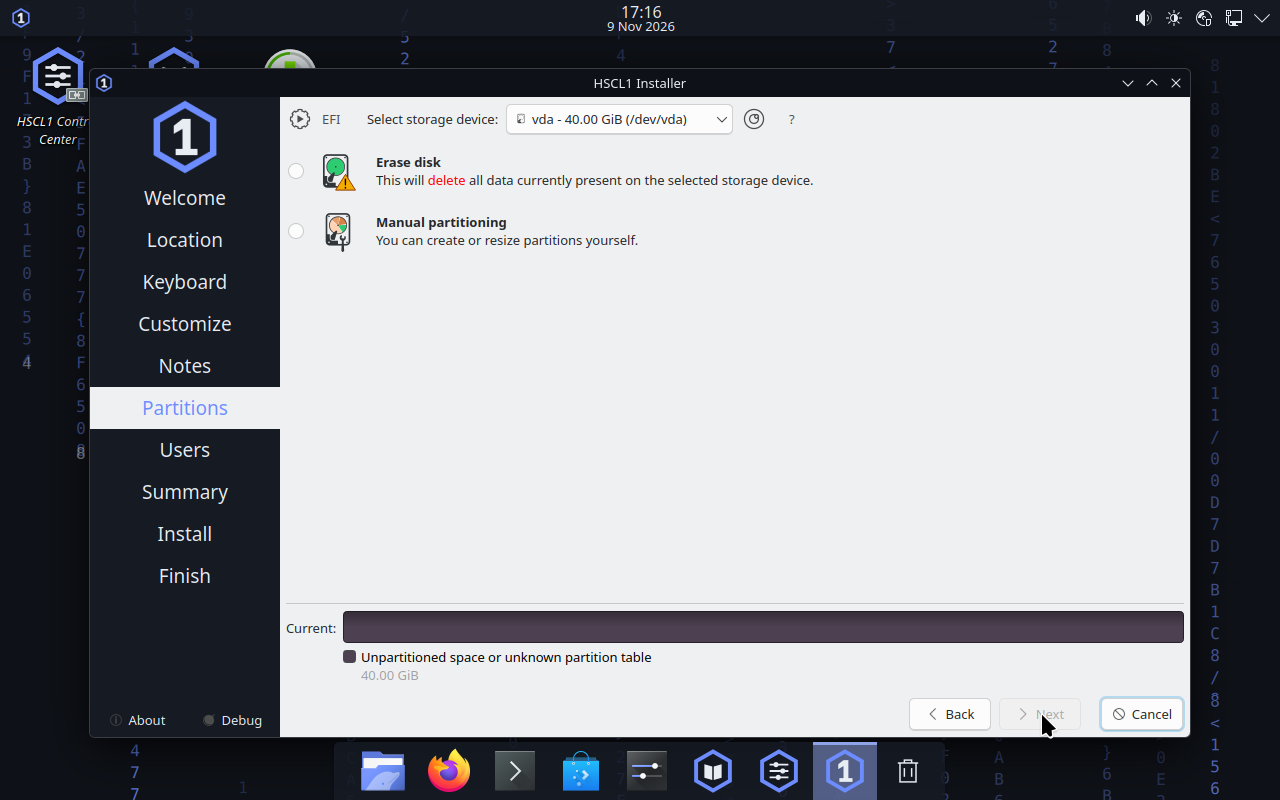
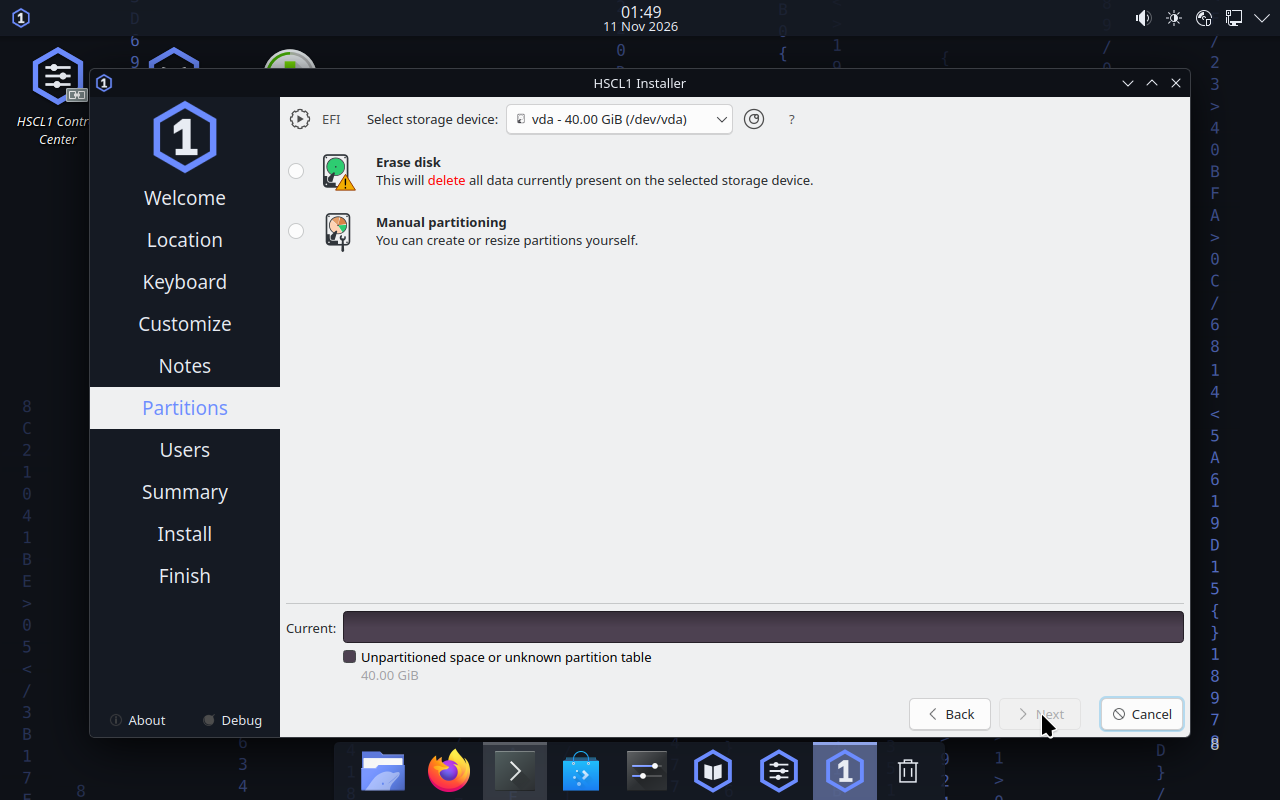
docs: LUKS2 on rc3 verified through the software-rendering wrapper; installer pages from that run

diff --git a/docs/AUTONOMOUS_QUEUE.md b/docs/AUTONOMOUS_QUEUE.md
@@ -47,7 +47,7 @@ booted-artifact evidence missing).
 | Q-49 | Full install and boot at the documented 4 GB minimum | installer pages + installed boot | **VM-VERIFIED 2026-11-10** - `HSCL1-qa-green` (`5d4ea47e…`), 4 GB: centred installer with the full version string, erase plan ESP+ext4, confirmation dialog, "All done", 27 min without an OOM kill; the disk then booted with `iso=none`, logged in, and `hscl privacy status` shows `persistent disk swap: active (expected on an installed system)` |
 | Q-50 | LUKS install panicked in the guest at 6 GB | kernel console text + retry | **RESOLVED as a RAM requirement 2026-11-10** - the 6 GB run panicked (`Attempted to kill init! exitcode=0x0000000b`), the identical scenario at **8 GB** finished with "All done" and the disk unlocked (`artifacts/install-luks-final2`, `artifacts/boot-luks-final`). It is intermittent (6 GB had worked on the previous candidate), so the documentation now says: give an encrypted install 8 GB; the unencrypted one is verified at 4 GB. Added `scripts/dev/detect_panic.py` plus a `panic_suspects` key in the harness summary so a dead guest is never mistaken for a quiet run. |
 | Q-51 | Test-order dependence in the WSL-backed unit tests | reproduce with a seed, then fix the pollution | **CAUSE FOUND AND HANDLED 2026-11-10** - the failures were not order-dependent after all: WSL writes its own launcher errors as **UTF-16** into the stdout pipe ("Ein Verbindungsversuch ist fehlgeschlagen … github.com/microsoft/WSL/issues"), so the test saw NUL-separated mojibake instead of the script output and asserted on it. `tests/shellutil.py` now normalises that text (UTF-16 detection), skips with a reason when a launcher marker is present - even at returncode 0, because the launcher can report success while printing its failure - and still fails real script failures; 8 unit tests pin it. The gate keeps `-p no:randomly` so a rerun reproduces the same order. |
-| Q-59 | Install, LUKS and QA gates on the newest artifact | VM runs against one ISO | (renumbered from the duplicated Q-52 on 2026-11-11; Q-52 is the icon-label defect, as AUDIT and PLAN_INDEX use it) **INSTALL SIDE DONE 2026-11-11, LUKS running** - rc3 (`f1202eb0…`) has two complete 4 GB installs (`artifacts/install-rc3`, `artifacts/install-rc3b`, both "All done. HSCL1 0.1.5-alpha.0") and one installed-disk boot with login (`artifacts/boot-installed-rc3`). Still on rc2 (`0ed86405…`): the QA report and the Security Lab chain. LUKS2 on rc3 at 8 GB is running through `/usr/bin/hscl-calamares`. Next: unlock/boot test, then a QA report on rc3. |
+| Q-59 | Install, LUKS and QA gates on the newest artifact | VM runs against one ISO | (renumbered from the duplicated Q-52 on 2026-11-11; Q-52 is the icon-label defect, as AUDIT and PLAN_INDEX use it) **INSTALL AND LUKS DONE ON rc3, QA REPORT STILL ON rc2** - rc3 (`f1202eb0…`) has two complete 4 GB installs (`artifacts/install-rc3`, `artifacts/install-rc3b`), one installed-disk boot with login (`artifacts/boot-installed-rc3`), and a complete **LUKS2 install through `/usr/bin/hscl-calamares`** at 8 GB with unlock (`artifacts/install-luks-rc3`, `artifacts/boot-luks-rc3`: wrong passphrase refused, `LUKS volumes open: 1`). Still on rc2 (`0ed86405…`): the QA report and the Security Lab chain. Next: `qa_report.py` on a rc3 boot and the lab chain on rc3. |
 | Q-44 | Installed SDDM login screen shows the KDE gear avatar | offline inspection of the installed disk | **EXPLAINED (2026-11-10), cosmetic only** — the theme is correct: `/etc/sddm.conf.d/30-hscl1.conf` sets `Current=hscl1`, the theme ships a 1920×1080 `background.png` that is **bit-identical** to `wallpapers/HSCL1Midnight/contents/images/1920x1080.png` (the desktop's hexagon/code texture comes from the rain wallpaper plugin, not from the wallpaper file), and `/home/hscl1t/.face` + `.face.icon` exist with the HSCL1 mark. The greeter still shows the KDE default because the home directory is `drwxr-x---` (the `sddm` user cannot traverse it) and `/var/lib/AccountsService/users/` has no entry for the user yet. Fix option (roadmap): seed an AccountsService `Icon=` entry at install time. |
 | Q-45 | Welcome Center opens on the generic KDE page | VM screenshot | **CLOSED as an upstream constraint (2026-11-10)** — the intro pages are compiled into the `plasma-welcome` binary and the only on-disk extension point is `/usr/share/plasma/plasma-welcome/extra-pages/` (the pristine rootfs ships exactly one file there, `01-Kubuntu.qml`, which we replace with `01-HSCL1.qml`). `strings` on the binary shows no config key to skip or reorder the intro pages, so ours is necessarily one of the eight dots. Documented in KNOWN_LIMITATIONS; a first-run flow of our own is roadmap work, not a patch. |
 | Q-46 | Installer started from the desktop icon is SIGKILLed | journal evidence + killer identification | **FIXED + VM-VERIFIED 2026-11-10** - journal: `KCrash: Application 'calamares' crashing...` right after `initViewSteps()` / `ModuleManager::checkRequirements()`, then `Killed`/`status=137`; the welcome module's `internet` HTTPS probe ran in that phase and is now removed from `welcome.conf` (gate + test). Rebuilt `HSCL1-installer-fix-amd64.iso` (`3e8ebce1…`): icon launch worked in three separate 4 GB boots (`boot-icon-3x/a1`, `boot-icon-once-1/i1`, `boot-icon-once-2/i1`), no KCrash, no crash dialog. | grep -iE 'earlyoom|killed process|status=137'` on a failing boot. |
@@ -56,7 +56,7 @@ booted-artifact evidence missing).
 | Q-19 | Reduce `qmllint` `[unqualified]` warnings in the Control Center (23 of 152) | `qml-gate.sh` warning budget lowered | **REDUCED 2026-11-10 (153 -> 149)** - `Main.qml` now reads the `cli` context property once into a declared `cliBackend` member and the five page bindings are qualified (`backend: win.cliBackend`), so exactly one unqualified access remains (the single context-property read). `test_cc_wiring.py` asserts both the 5 qualified bindings and the single read; the QML gate passes with 149 warnings. The remaining 149 are `[unqualified]` in Repeater delegates and the rain wallpaper plugin; each needs a per-file `required property` pass, which is mechanical but large. |
 | Q-52 | Desktop icon labels are italic and not centred under their icons | VM screenshot with upright, centred labels | **ROOT CAUSE FOUND 2026-11-11, fix in the tree, capture pending** - it is not the font: the image ships 314 Noto font files (and no Lato), and Plasma's `FolderItemDelegate.qml` line 380 is `font.italic: (main.model?.isLink ?? false)` - the two HSCL1 desktop entries were **symlinks**, and Plasma italicises link labels by design. The hook now installs real `.desktop` copies (`rm -f` the old links, `install -m 0644`), the image gate rejects a symlink for both entries, and `tests/unit/test_desktop_link_labels.py` pins it. Upright labels still need a booted capture; the third icon (`Install HSCL1`) comes from the ISO, not from this hook, and is not covered. The earlier 'no Noto font' hypothesis came from a shell run where `$R` expanded empty - corrected here. |
 | Q-53 | Kate renders light inside the dark shell while Dolphin/Konsole are dark | luminance comparison of Dolphin, Kate and Konsole on one artifact | **FIX IN THE TREE 2026-11-11, capture pending** - Kate does not follow the Plasma palette on its own: the window chrome uses `[UiSettings] ColorScheme` and the editor area the KSyntaxHighlighting `[KTextEditor Renderer] Color Theme` (KDE docs, 'Working with Color Themes'). The hook now writes `/etc/skel/.config/katerc` with both set to Breeze Dark plus `Auto Color Theme Selection=false`, so new and live users open dark; `tests/unit/test_kate_dark_default.py` pins it. The showcase capture still shows the light window until a booted run replaces it. |
-| Q-54 | Recapture installer welcome/encryption and handbook screenshots on `rc2` | `manifest.json` entry with `source_iso` per image | **OPEN 2026-11-10** - `11`/`12` come from `HSCL1-earlyoom-fix`, `install-encrypt.png` from 2026-11-06; the welcome page also stretches the branding logo (separate layout fix). |
+| Q-54 | Recapture installer welcome/encryption and handbook screenshots on `rc2` | `manifest.json` entry with `source_iso` per image | **PARTIAL 2026-11-11** - the installer pages are refreshed from the rc3 LUKS run, which is the first run through the software-rendering wrapper: `11_installer_welcome.png` (l01), `19_installer_partitions.png` (l02) and a new `21_installer_encryption_luks.png` (l03: erase disk + encrypt with the LUKS2 plan). `18_installer_notes_encryption.png` stays from 2026-11-09 - the notes text is unchanged, but it is not an rc3 capture and the manifest keeps that older timestamp. The **handbook** page is still open; it needs a boot where `hscl-handbook` opens in a visible window. |
 | Q-55 | Website hero and Control Center image are older than the current candidate | `website/dist/img/*` refreshed + `test_website_build.py` green | **DONE (wording + images) 2026-11-10** - the generator now copies `showcase/01_desktop_clean.png` and `showcase/04_control_center_overview.png`; EN/DE/FR status bullets name the verified lab chain and the Secure Boot fact. A capture from the 0.1.5 candidate is still pending, so the images are the newest verified ones rather than brand new. |
 | Q-56 | The published `v0.1.4-alpha.0` ISO predates the tree by 118 commits | new candidate built from `HEAD`, VM-verified, split, released; `release.json` + README synced | **DONE 2026-11-10** - `HSCL1-0.1.5-alpha.0-amd64.iso` (`c3ae31a6…`, 5 027 135 488 B, source `406186d`, xz) built, UEFI-booted at 4 GB (desktop 242 s, `qa_report.py` exit 0), split into 3 parts whose rejoin hash equals the ISO, tagged `v0.1.5-alpha.0` and published as a prerelease with 8 assets; `website/data/release.json` and the README download section carry the new checksums. Four later commits touch tests/docs/one `rustfmt` reflow only and the notes say so. |
 | Q-57 | Wallpaper preset switching may not take effect: `grid` and `rain` captures render as **starfield** | four visibly different frames from one boot | **CLOSED 2026-11-11** - one rc3 boot, four shots after `hscl appearance wallpaper set` with the real preset ids: aurora 70 293 B / 7 168 colours, starfield 47 377 / 6 064, grid pulse 53 912 / 6 114, midnight rain 182 660 / 23 821 - all visibly different (`artifacts/boot-wallpapers-rc3/wd1`…`wd4`), and the showcase now shows all four. The 2026-11-10 series had typed effect names (`grid`, `rain`), which are not preset ids; `wd5` shows that error. `wallpaper::find` now names the presets that carry an effect (unit test `an_effect_name_points_at_the_presets_that_carry_it`). |

diff --git a/docs/CLAIMS.md b/docs/CLAIMS.md
@@ -28,7 +28,7 @@ Current source corrections (2026-11-08): HCSEASYMATH has six API/CLI operations 
 | Main ISO boots to the HCS desktop (UEFI/BIOS, QEMU+WHPX) | VM-VERIFIED | screenshots in `artifacts/` (not in git), BUILD_LOG |
 | Installer completes a full install twice in a row | **VM-VERIFIED 2026-11-11** (`HSCL1-rc3`, `f1202eb0…`, 4 GB, UEFI): both runs reached "All done. HSCL1 0.1.5-alpha.0" and wrote ~9.5 GB, no KCrash in either. Both were started with the **upstream** launcher from a terminal; the software-rendering wrapper (`/usr/bin/hscl-calamares`) is covered by the image gate, a unit test and the LUKS2 run, not by these two. Two clean runs are evidence, not proof of impossibility. | `artifacts/install-rc3/t13-before-finish.png`, `artifacts/install-rc3b/t13-before-finish.png` |
 | Installer installs to a 40 GiB virtual disk and the installed system boots and logs in | VM-VERIFIED on the current artifact 2026-11-11 (`HSCL1-rc3`, `f1202eb0…`, **4 GB**: "All done. HSCL1 0.1.5-alpha.0", then the disk boots and logs in to the HSCL1 desktop; a second install from the same ISO is the crash counter-check); earlier candidates `f8ae5c52…` (4 GB), `e723940b…` (6 GB) and `5d4ea47e…` (4 GB) behaved the same | `artifacts/install-rc3/t13-before-finish.png`, `artifacts/boot-installed-rc3/w3-security-status.png`; earlier `artifacts/install-term-6g` ("All done", 9.69 GB written) and `artifacts/boot-installed-term` (SDDM login, desktop, `hscl doctor` 6 passed / 0 failed / 1 skipped); BUILD_LOG "First complete installation" |
-| LUKS2 install + unlock, wrong passphrase refused | VM-VERIFIED (2026-11-10, `e723940b…`, 6 GB VM) | `artifacts/install-luks` (plan: ESP + `hscl1_boot` 4 GiB + `hscl1_root` 35.71 GiB LUKS2) and `artifacts/boot-luks` (unlock prompt, `cryptsetup: ERROR … bad password`, correct passphrase, desktop, `LUKS volumes open: 1`); BUILD_LOG "LUKS2 install and unlock" |
+| LUKS2 install + unlock, wrong passphrase refused | **VM-VERIFIED on the current artifact 2026-11-11** (`HSCL1-rc3`, `f1202eb0…`, **8 GB**, UEFI, install through `/usr/bin/hscl-calamares`): plan ESP 300 MiB + `hscl1_boot` 4 GiB + `hscl1_root` 35.71 GiB LUKS2, "All done" after 2006 s; booting the disk, the wrong passphrase is refused (`cryptsetup failed, bad password or options?`), the right one reaches SDDM and the desktop with `LUKS volumes open: 1`; earlier candidates `e723940b…` (6 GB) and `3e8ebce1…` behaved the same | `artifacts/install-luks-rc3/l03-passphrase.png`, `l09-before-finish.png`, `artifacts/boot-luks-rc3/unlock-after-wrong.png`, `unlock-after-correct.png`, `w3-security-status.png`; BUILD_LOG "LUKS2 on rc3 through the software-rendering wrapper" |
 | Machine-readable in-guest report (`hscl.qa` port → `qa_report.py`) | VM-VERIFIED (2026-11-10, `5d4ea47e…`, 4 GB VM) | `artifacts/qa/hscl1-report-green.txt`, `qa_report.py` exit 0 (9 ok, 1 info); BUILD_LOG "QA report green" |
 | Workshop daemon starts through udev when the hypervisor provides the `hscl.api` port, answers `status`, accepts hook-pushed files | VM-VERIFIED | `artifacts/e2e1/report.json`, `artifacts/e2e2` run log in BUILD_LOG |
 | Respin: squashing the live state | VM-VERIFIED (373 s, first run) | BUILD_LOG |

diff --git a/docs/BUILD_LOG.md b/docs/BUILD_LOG.md
@@ -1827,6 +1827,34 @@ wording.
 `wd6-preset-list.png` is the preset listing. The showcase entries `02_wallpaper_*.png` were replaced from these
 frames and carry `source_iso: HSCL1-rc3 … f1202eb0`.
 
+### LUKS2 on rc3 through the software-rendering wrapper (2026-11-11)
+
+| Item | Value |
+|---|---|
+| ISO | `HSCL1-rc3-amd64.iso`, SHA-256 `f1202eb0…` |
+| VM | UEFI + WHPX, **8 GB**, 4 vCPU, disposable 40 GB qcow2 (`artifacts/vdisks/luks-rc3.qcow2`) |
+| Launcher | `/usr/bin/hscl-calamares` (`QT_QUICK_BACKEND=software`) - the first full install through the wrapper |
+| Scenario | `tests/visual/scenarios/install-luks.json` |
+| Partition plan | ESP 300 MiB FAT32 + `hscl1_boot` 4.00 GiB ext4 + `hscl1_root` 35.71 GiB **LUKS2** (`l03`) |
+| Install | "All done. HSCL1 0.1.5-alpha.0" after 2006 s, `disk_idle_after_s` 184, 9.93 GB written |
+| Boot | `iso=none`, 8 GB, `--unlock-first-wrong definitely-not-it-2026`, then the real passphrase |
+
+Boot chain in `artifacts/boot-luks-rc3`:
+
+1. `unlock-prompt.png` - `Please unlock disk luks-ceb2a28b-10a5-4a06-b1be-dd1ea6b6d848`
+2. `unlock-after-wrong.png` - the wrong passphrase is refused:
+   `cryptsetup: ERROR: luks-ceb2a28b-…: cryptsetup failed, bad password or options?`, prompt returns, nothing is
+   destroyed
+3. `unlock-after-correct.png` - the real passphrase continues the boot
+4. `login-screen.png`, then the HSCL1 desktop (`w0-desktop.png`)
+5. In the encrypted installed system (`w3-security-status.png`): `AppArmor enabled: yes`, `UFW enabled: yes`,
+   `Secure Boot: unknown (no SecureBoot variable; Secure Boot off)`, **`LUKS volumes open: 1`**,
+   `Forbidden APT repos: none`, `root filesystem: ext4`, zram swap active, core dumps disabled
+
+The 4 GB `/boot` stays in clear text on purpose: the installer warns about it in the Notes page, and GRUB has to
+read the kernel without the passphrase. The install took ~33 minutes because the installer renders in software;
+the previous native-GPU LUKS install on `e723940b…` needed 1786 s for the same plan.
+
 ### Version state (2026-11-10)
 
 `VERSION` in the tree is **0.1.5-alpha.0** (commit `014b71e`, authored 2026-11-10 22:29, touching VERSION,
